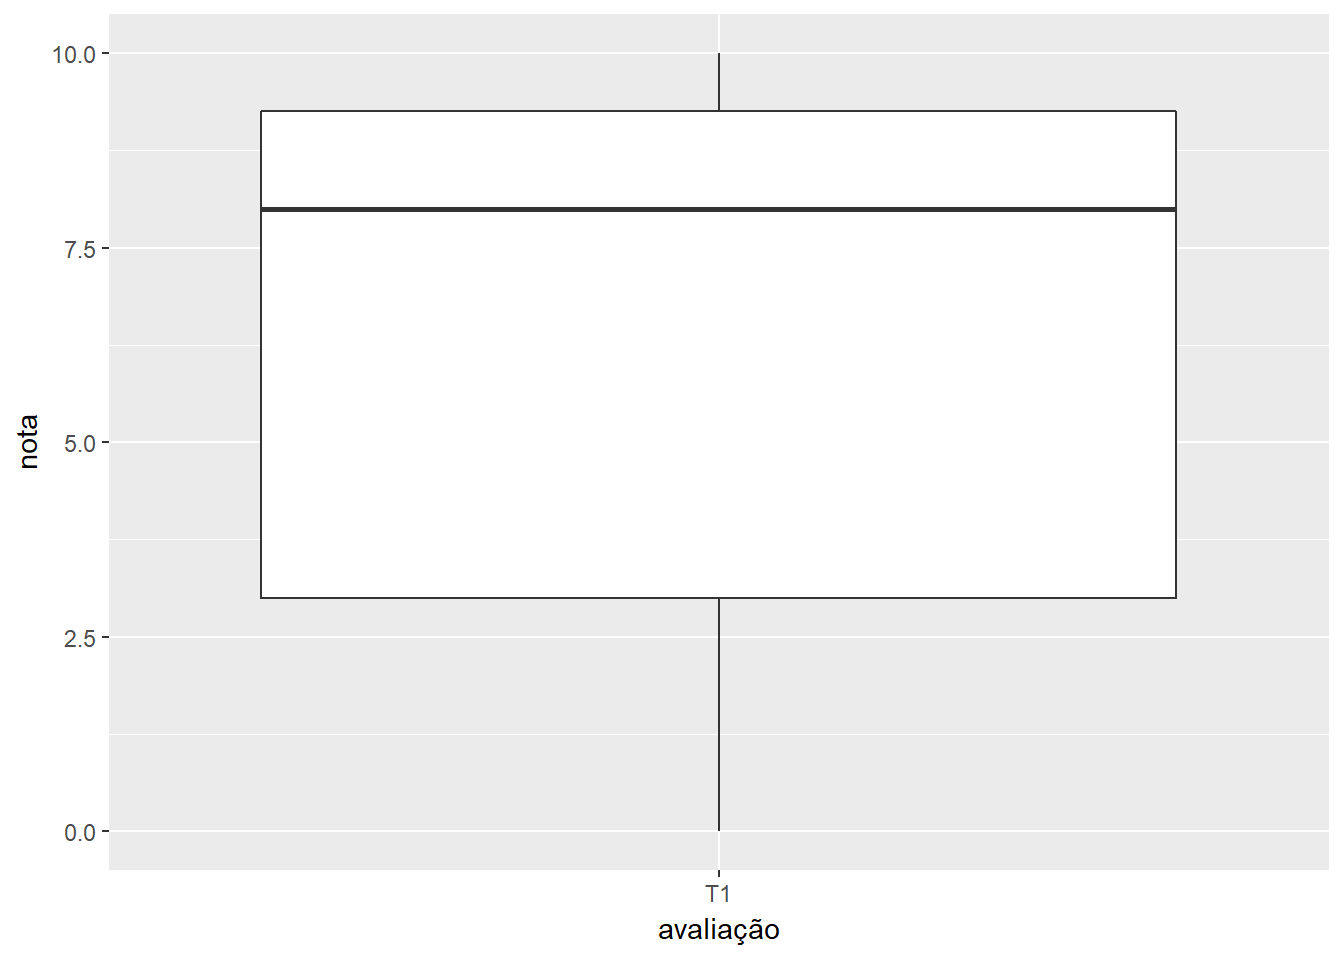
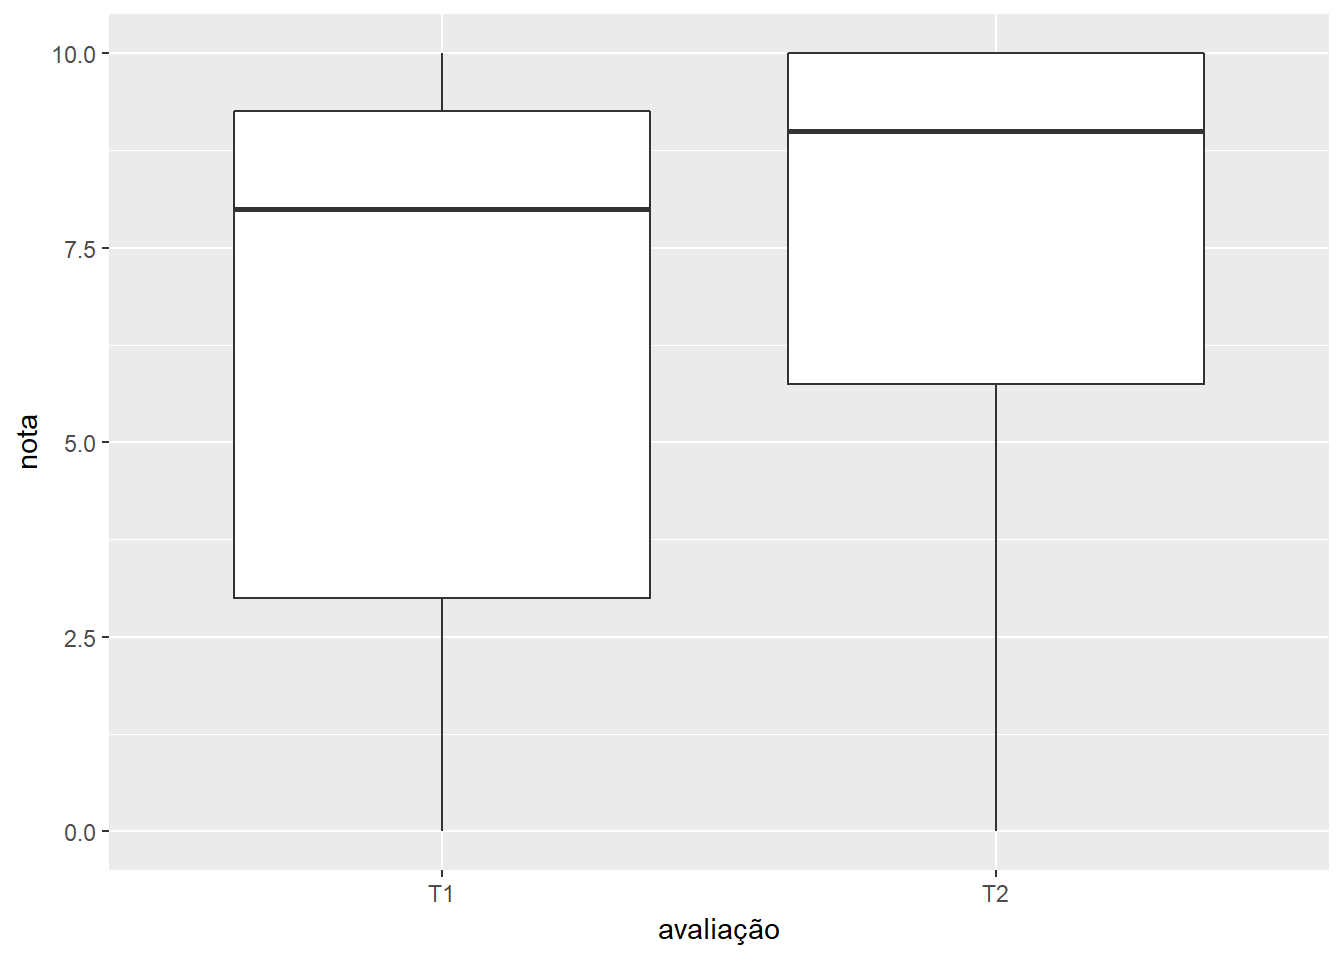
Prob 1: Notas teste 2.

diff --git a/content/classes/2018_2_prob_1/grades.html b/content/classes/2018_2_prob_1/grades.html
@@ -14,6 +14,7 @@ subtitle: "2o semestre de 2018"
 <script src="/rmarkdown-libs/crosstalk/js/crosstalk.min.js"></script>
 
 
+<p>1</p>
 <div id="notas" class="section level1">
 <h1>Notas</h1>
 <ul>
@@ -23,7 +24,7 @@ subtitle: "2o semestre de 2018"
 <div id="notas-1" class="section level3">
 <h3>Notas</h3>
 <div id="htmlwidget-1" style="width:100%;height:auto;" class="datatables html-widget"></div>
-<script type="application/json" data-for="htmlwidget-1">{"x":{"filter":"none","data":[[530,560,1923,2449,2718,2728,2735,4149,4459,4843,4844,4851,4860,4861,4882,7653,7862,8172,8310,8549,8557,8584,8642,8655,8695,8897,8934],[2,7.5,9.5,8,9,9,9.5,10,0,1,2,2,8.5,7,2.5,7,1.5,9.5,9,10,9.5,5.5,8,8.5,8.5,10,3.5]],"container":"<table class=\"display\">\n  <thead>\n    <tr>\n      <th>RA<\/th>\n      <th>T1<\/th>\n    <\/tr>\n  <\/thead>\n<\/table>","options":{"dom":"ftip","columnDefs":[{"className":"dt-right","targets":[0,1]}],"order":[],"autoWidth":false,"orderClasses":false}},"evals":[],"jsHooks":[]}</script>
+<script type="application/json" data-for="htmlwidget-1">{"x":{"filter":"none","data":[[530,560,1923,2449,2718,2728,2735,4149,4459,4843,4844,4851,4860,4861,4882,7653,7862,8172,8310,8549,8557,8584,8642,8655,8695,8897,8934],[2,7.5,9.5,8,9,9,9.5,10,0,1,2,2,8.5,7,2.5,7,1.5,9.5,9,10,9.5,5.5,8,8.5,8.5,10,3.5],[8,4.5,8,10,3.5,10,10,7,0,8,0,0,10,8,10,0,10,10,10,10,10,9,10,10,8,10,0]],"container":"<table class=\"display\">\n  <thead>\n    <tr>\n      <th>RA<\/th>\n      <th>T1<\/th>\n      <th>T2<\/th>\n    <\/tr>\n  <\/thead>\n<\/table>","options":{"dom":"ftip","columnDefs":[{"className":"dt-right","targets":[0,1,2]}],"order":[],"autoWidth":false,"orderClasses":false}},"evals":[],"jsHooks":[]}</script>
 </div>
 <div id="graficos" class="section level3">
 <h3>Gráficos</h3>
